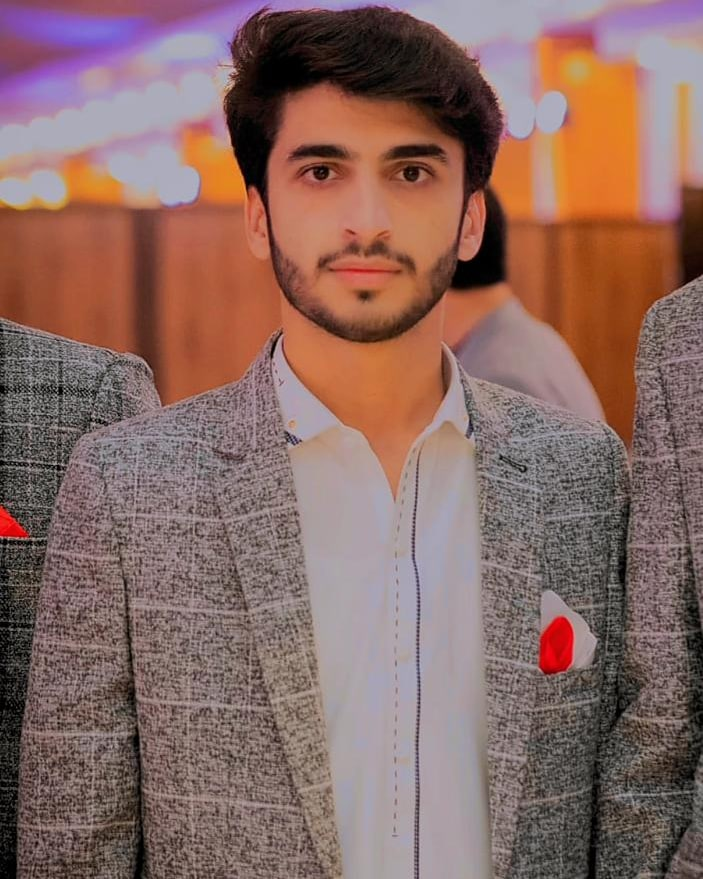
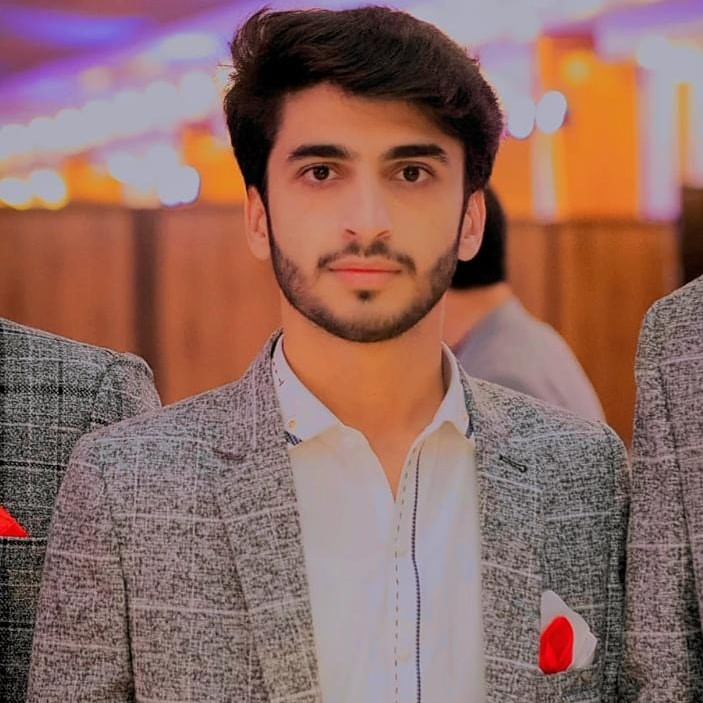
-

diff --git a/index.html b/index.html
@@ -28,8 +28,8 @@
         }
       .myimg{
           border-radius: 100%;
-          width: 15%;
-          height: 15%;
+          width: 200px;
+          height: 200px;
       }
     </style>
   </head>
